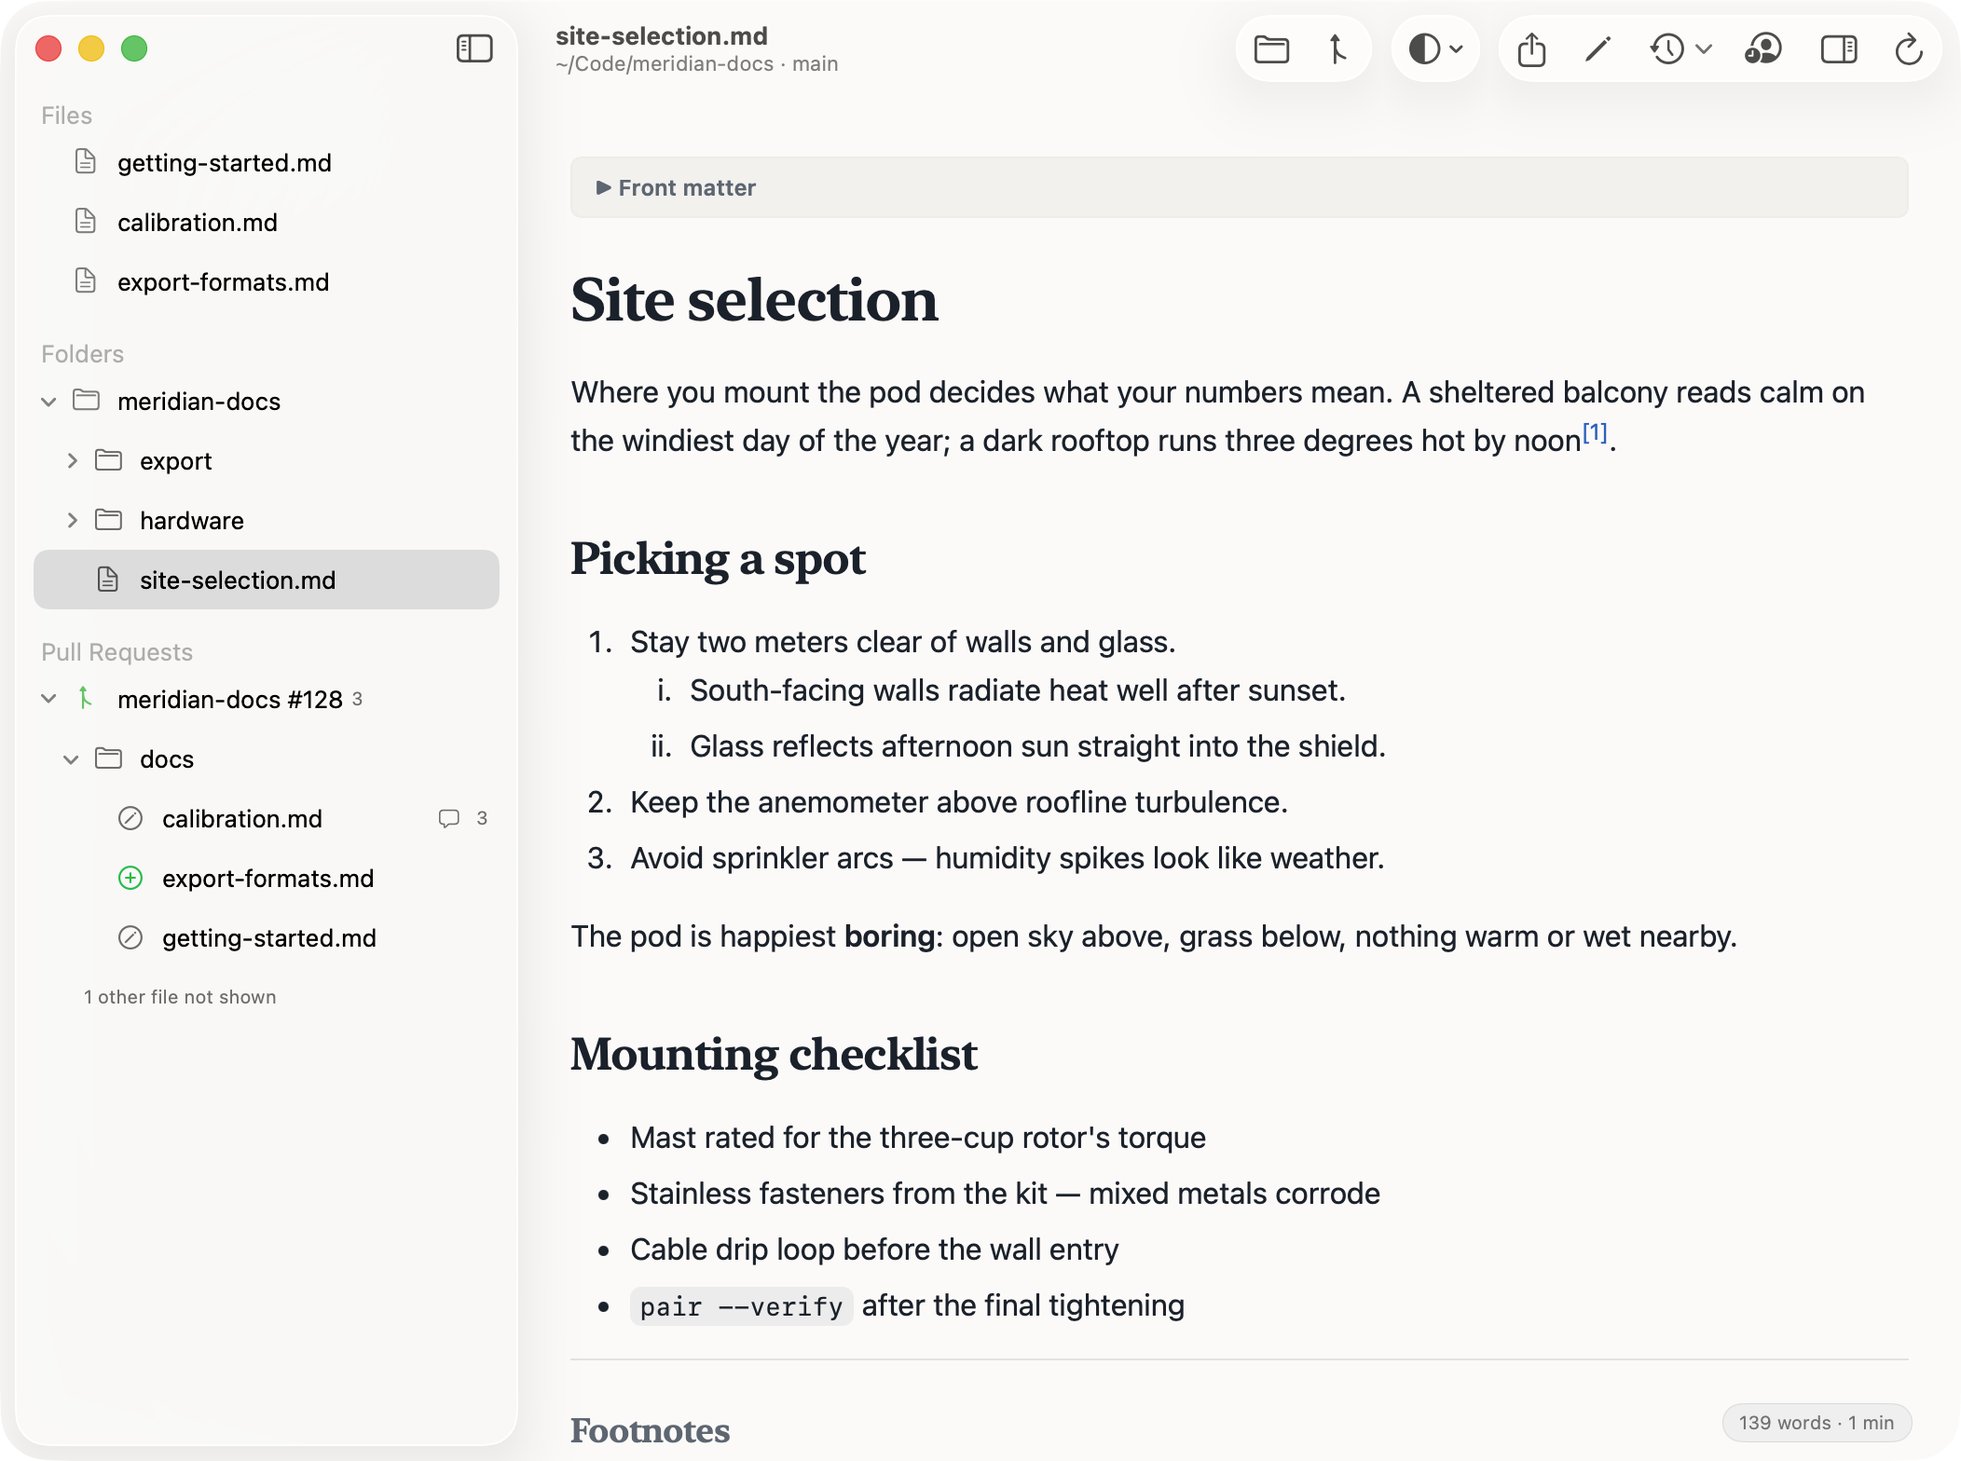
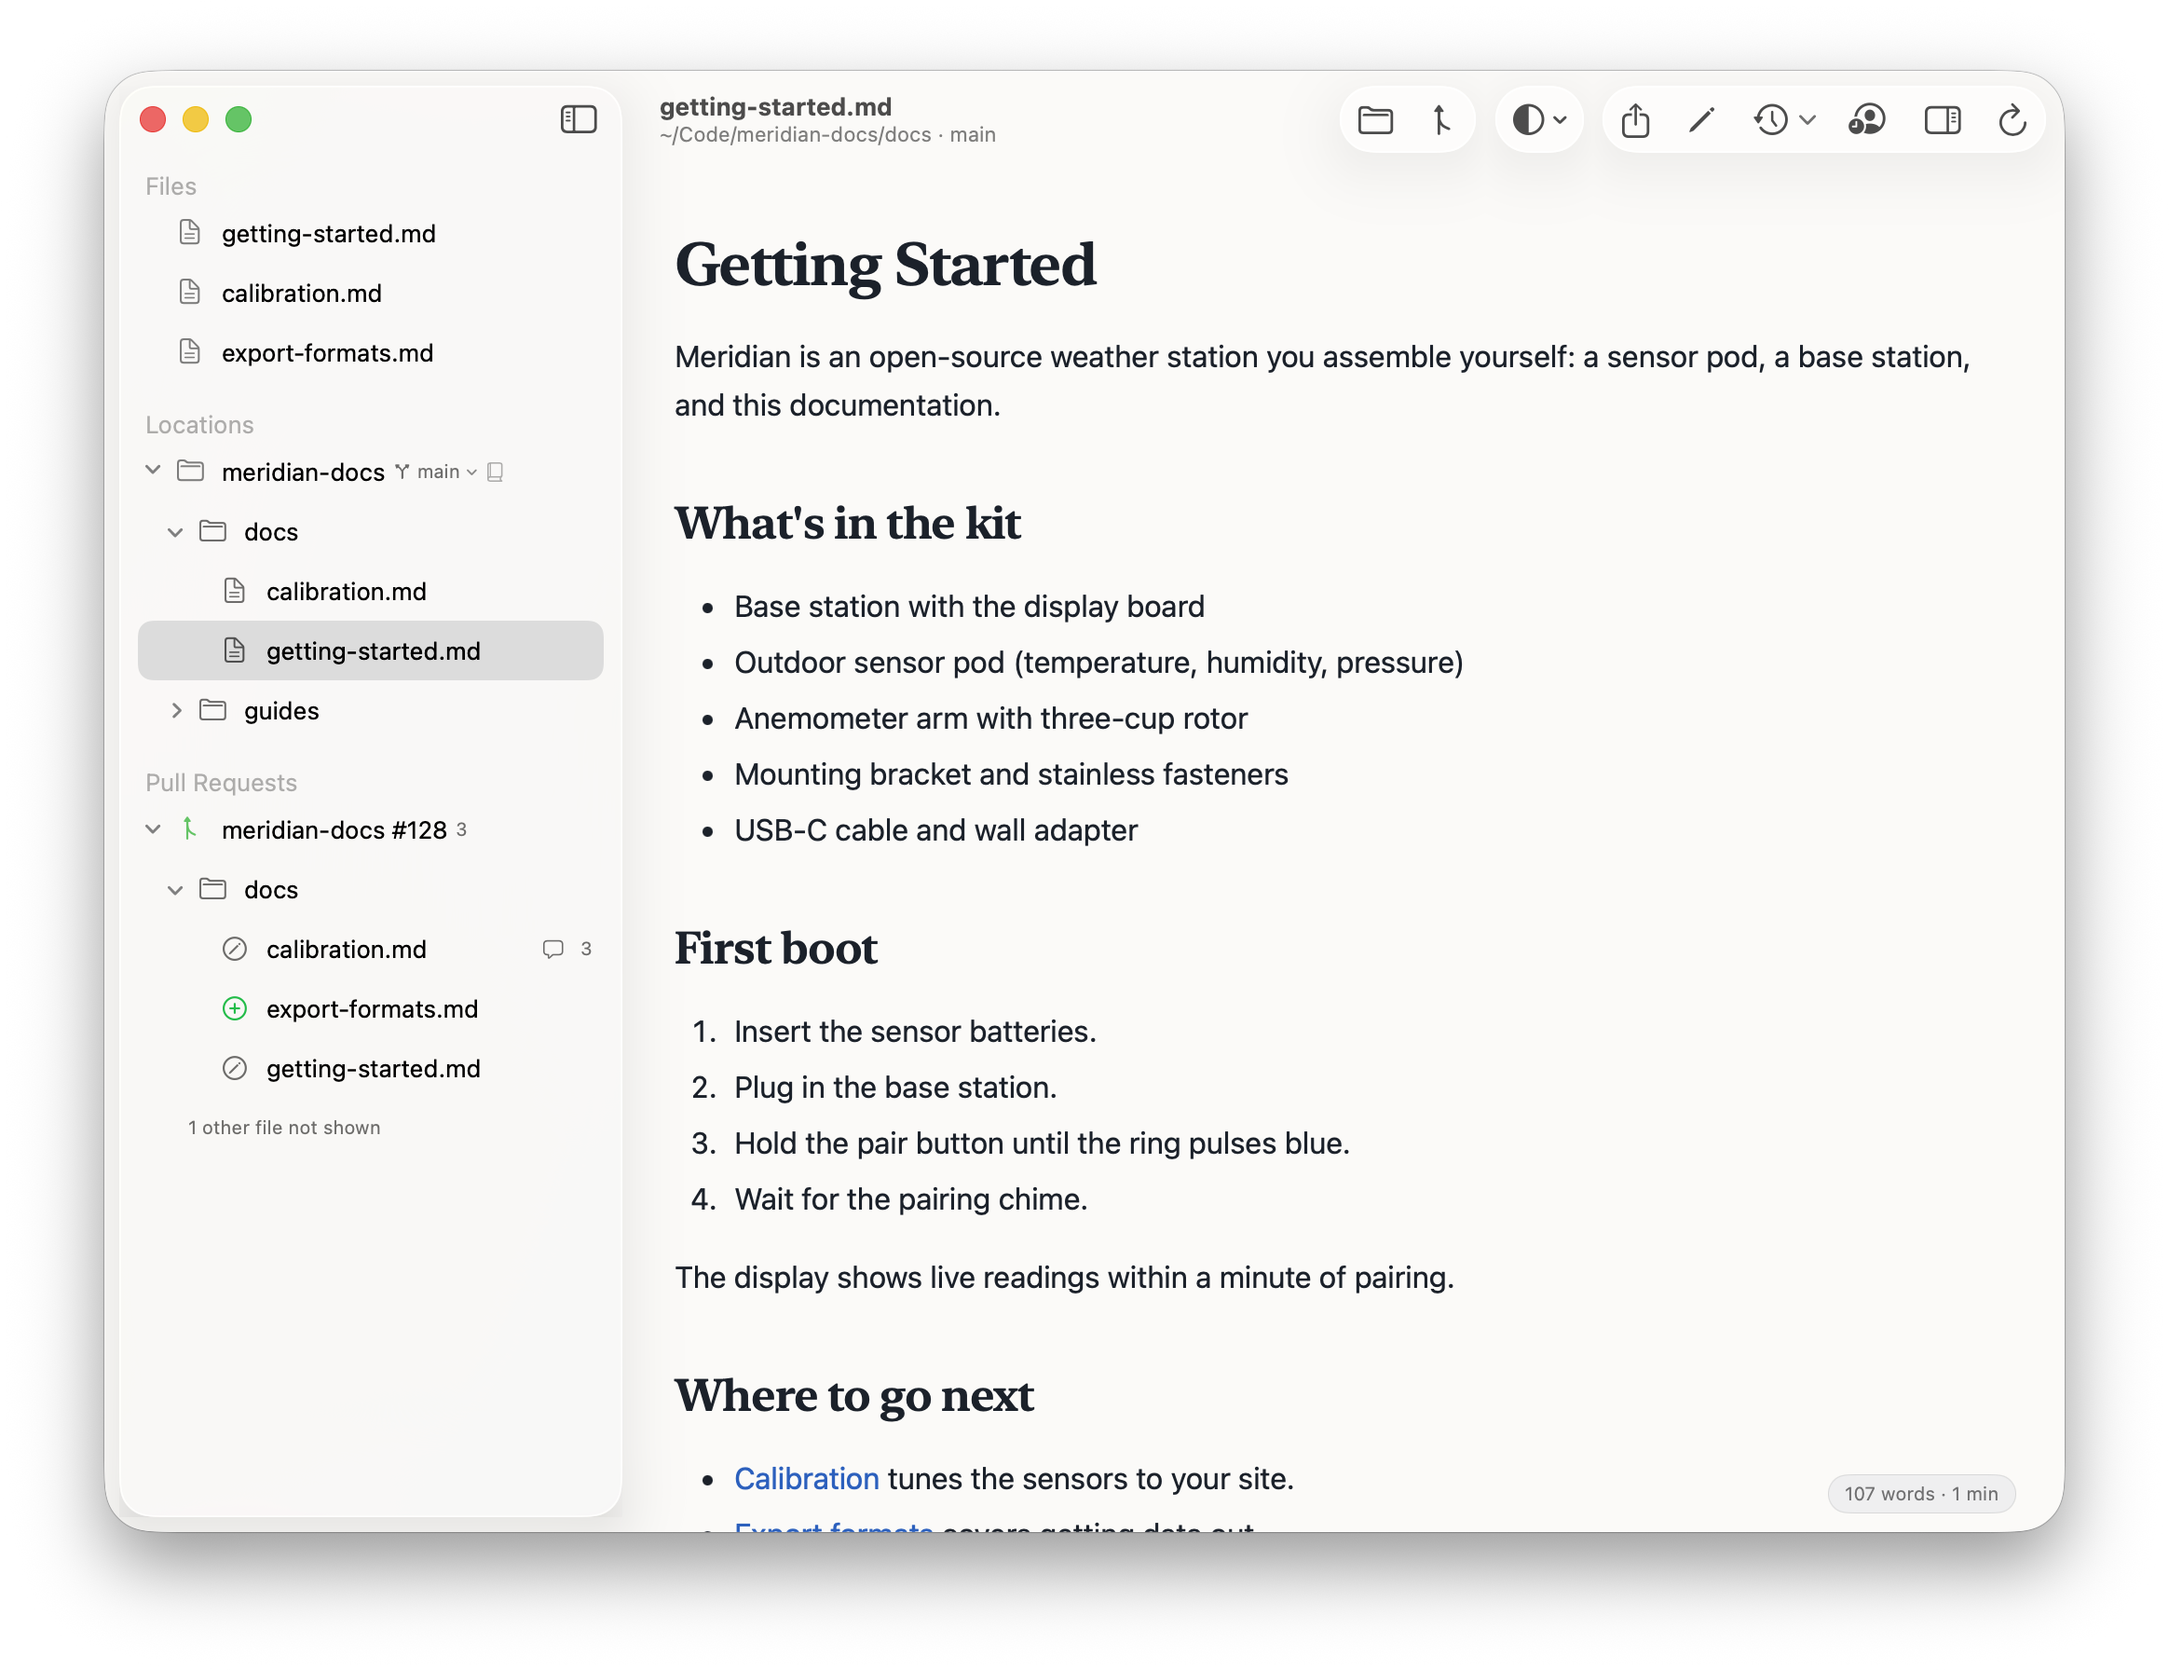
Site: 0.26.0 feature section + fresh screenshots; ⌘K scheme-less GitHub URLs
The reader section gains a GitHub subsection (provenance bar, branch
chips, worktrees, local precedence) with a new shot of a doc read
straight from a repo, a feature bullet in the readlist, and a retaken
reading shot showing the consolidated Locations sidebar with its
branch chip and repo mark — all demo-fixture or public-repo content.

Also fixes a gap the screenshot session itself caught: ⌘K only
matched GitHub URLs with an https:// scheme, though the changelog
advertises the bare github.com/owner/repo form — scheme-less input now
gets https:// prefixed before parsing, with tests.

diff --git a/site/index.html b/site/index.html
@@ -599,10 +599,10 @@ footer .note { margin-left: auto; }
       <code>[toc]</code>, and YAML front matter folded into a tidy metadata table.</p>
 
     <figure class="shot reading-shot">
-      <img src="img/app-doc.png?v=6" width="1052" height="784" loading="lazy"
-        alt="PullMark rendering a local Markdown file from a docs repo: the sidebar shows individually opened files, an opened folder as a tree of subfolders and Markdown files, and an open pull request whose changed files form a tree with status icons and a comment-count badge; the document shows a collapsed front-matter bar, formatted headings, nested ordered lists, and a footnote reference; the titlebar shows the file's folder and git branch, with a word-count pill in the corner">
-      <figcaption>Folders come in as living trees, front matter folds into a quiet bar,
-      pull requests sit beside your local files, the titlebar knows your branch — and a
+      <img src="img/app-doc.png?v=7" width="1052" height="784" loading="lazy"
+        alt="PullMark rendering a local Markdown file from a docs repo: the sidebar's Locations section shows an opened folder as a tree of subfolders and Markdown files, wearing a git branch chip and a GitHub repo mark, beside individually opened files and an open pull request whose changed files form a tree with status icons and a comment-count badge; the document shows formatted headings, bulleted and numbered lists, and links; the titlebar shows the file's folder and git branch, with a word-count pill in the corner">
+      <figcaption>Folders come in as living trees, every location wears its git branch,
+      pull requests sit beside your local files, the titlebar knows where you are — and a
       words&nbsp;·&nbsp;minutes pill keeps score.</figcaption>
     </figure>
 
@@ -642,8 +642,12 @@ footer .note { margin-left: auto; }
       <li><strong>A review inbox</strong> — PRs awaiting your review, filtered to the ones that
         actually change Markdown, with unread counts; every sidebar section collapses and
         remembers.</li>
+      <li><strong>GitHub links open in-app</strong> — click a <code>github.com</code> link to a
+        Markdown file and PullMark renders it, with an always-visible repo&nbsp;@&nbsp;branch
+        provenance bar; <kbd>⌘</kbd>-click sends it to the browser instead.</li>
       <li><strong>Open Quickly</strong> — <kbd>⌘K</kbd> jumps to any heading, file, or PR,
-        fuzzy-matched — or paste a PR URL or a file path and it opens that directly.</li>
+        fuzzy-matched — or paste a PR URL, a repo URL, or a file path and it opens that
+        directly.</li>
       <li><strong>Moved means moved</strong> — a paragraph relocated verbatim renders once with
         a quiet violet chip, not red-plus-green noise.</li>
       <li><strong>Picks up where you left off</strong> — your files, PRs, and reading position
@@ -665,6 +669,25 @@ footer .note { margin-left: auto; }
       <img src="img/app-edit.png?v=2" width="860" height="420" loading="lazy"
         alt="A rendered document in edit mode: one paragraph revealed as raw Markdown source in place, surrounded by rendered content">
       <figcaption>Edit mode: the active block shows its source; everything else stays rendered.</figcaption>
+    </figure>
+
+    <h3 style="font-family: var(--serif); font-size: 26px; margin: 56px 0 10px;">GitHub is a place your docs live. Read it like one.</h3>
+    <p class="prose">Click a <code>github.com</code> link to a Markdown file and PullMark fetches
+    and renders it in-app — your first click asks which behavior you want, and
+    <kbd>⌘</kbd>-click always does the other. A provenance bar above the page says exactly
+    which repo and branch you're reading, pinned to the commit it resolved to; relative links
+    keep resolving against the repo, the whole Markdown tree is one click away in the sidebar,
+    and private repos use the GitHub sign-in your PRs already use — nothing fetched ever
+    touches disk. Branches are a chip on every repo: switch in place, open another branch as
+    its own sidebar entry, or hop into a local worktree. And if the repo is already cloned on
+    your Mac on that branch, the link opens your local file instead.</p>
+
+    <figure class="shot reading-shot">
+      <img src="img/app-remote.png?v=1" width="1052" height="784" loading="lazy"
+        alt="PullMark rendering a Markdown file fetched from a GitHub repository: a provenance bar above the content reads the repository name, a branch chip, the file path, and the pinned commit, with an Open on GitHub link; the sidebar's Locations section shows the repository with a book icon and its Markdown file tree">
+      <figcaption>A doc read straight from GitHub: the provenance bar always says where you
+      are — repo, branch, pinned commit — and the branch chip switches or opens branches
+      without leaving the page.</figcaption>
     </figure>
 
     <figure class="shot shot-narrow">

diff --git a/Sources/PullMark/Core/OpenQuickly.swift b/Sources/PullMark/Core/OpenQuickly.swift
@@ -126,12 +126,17 @@ enum OpenQuickly {
         if let ref = PullRequestRef.parse(trimmed) {
             return .pullRequest(ref)
         }
-        if trimmed.lowercased().contains("github"), let url = URL(string: trimmed) {
-            if let link = RemoteDocLink.parse(url) {
-                return .remoteDoc(link)
-            }
-            if let repo = repoDestination(url) {
-                return repo
+        if trimmed.lowercased().contains("github") {
+            // People paste and type both forms — "github.com/owner/repo"
+            // has no scheme, so URL(string:) yields no host without help.
+            let spelled = trimmed.contains("://") ? trimmed : "https://" + trimmed
+            if let url = URL(string: spelled) {
+                if let link = RemoteDocLink.parse(url) {
+                    return .remoteDoc(link)
+                }
+                if let repo = repoDestination(url) {
+                    return repo
+                }
             }
         }
         var path = trimmed

diff --git a/Tests/PullMarkTests/RemoteDocLinkTests.swift b/Tests/PullMarkTests/RemoteDocLinkTests.swift
@@ -72,4 +72,14 @@ import Foundation
     @Test func wwwHostAccepted() {
         #expect(parse("https://www.github.com/o/r/blob/main/a.md") != nil)
     }
+
+    @Test func schemelessFormsWorkViaOpenQuickly() {
+        // ⌘K accepts what people actually type — no scheme.
+        #expect(OpenQuickly.directDestination(for: "github.com/o/r", fileExists: { _ in false })
+            == .remoteRepo(owner: "o", repo: "r", ref: nil))
+        #expect(OpenQuickly.directDestination(for: "github.com/o/r/blob/main/a.md",
+                                              fileExists: { _ in false })
+            == .remoteDoc(RemoteDocLink(owner: "o", repo: "r", ref: "main",
+                                        path: "a.md", fragment: nil)))
+    }
 }

diff --git a/CHANGELOG.md b/CHANGELOG.md
@@ -4,6 +4,12 @@ Notable user-facing changes to PullMark. Release notes for GitHub releases are
 extracted from this file by `scripts/make-release.sh` — keep the `## Unreleased`
 section current as features land.
 
+## Unreleased
+
+- ⌘K now accepts GitHub URLs typed without the scheme —
+  `github.com/owner/repo` and `github.com/…/blob/…` work the same as
+  their `https://` spellings.
+
 ## 0.26.0 - 2026-08-05
 
 - **GitHub Markdown links open in PullMark** — click a
